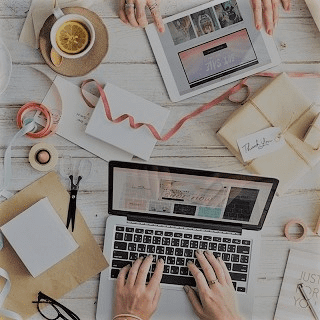
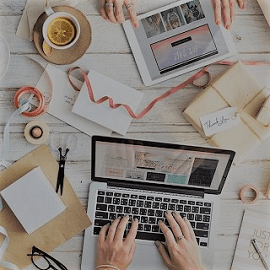
Redimmenssion de l'img 4 et commencement responsive mobile

diff --git a/modify/css/bootstrap.css b/modify/css/bootstrap.css
@@ -1367,9 +1367,13 @@ img {
 }
 
 .carousel-inner>.item>a>img, .carousel-inner>.item>img, .img-responsive, .thumbnail a>img, .thumbnail>img {
-    display: block;
     max-width: 100%;
     height: auto
+}
+@media screen and (min-width: 768px){
+    .carousel-inner>.item>a>img, .carousel-inner>.item>img, .img-responsive, .thumbnail a>img, .thumbnail>img{
+        display: block;
+    }
 }
 
 .img-rounded {
@@ -6745,6 +6749,10 @@ button.close {
     }
     td.visible-xs, th.visible-xs {
         display: table-cell !important
+    }
+    .carousel-inner>.item>a>img, .carousel-inner>.item>img, .img-responsive, .thumbnail a>img, .thumbnail>img {
+        max-width: 100%;
+        height: auto
     }
 }
 

diff --git a/modify/style.css b/modify/style.css
@@ -917,4 +917,11 @@ h4 {
     .bloc-mob-center-text {
         text-align: center;
     }
+    .tc-white{
+        font-size: 1.4em;
+    }
+    .social{
+        display: flex;
+        justify-content: space-between;
+    }
 }
